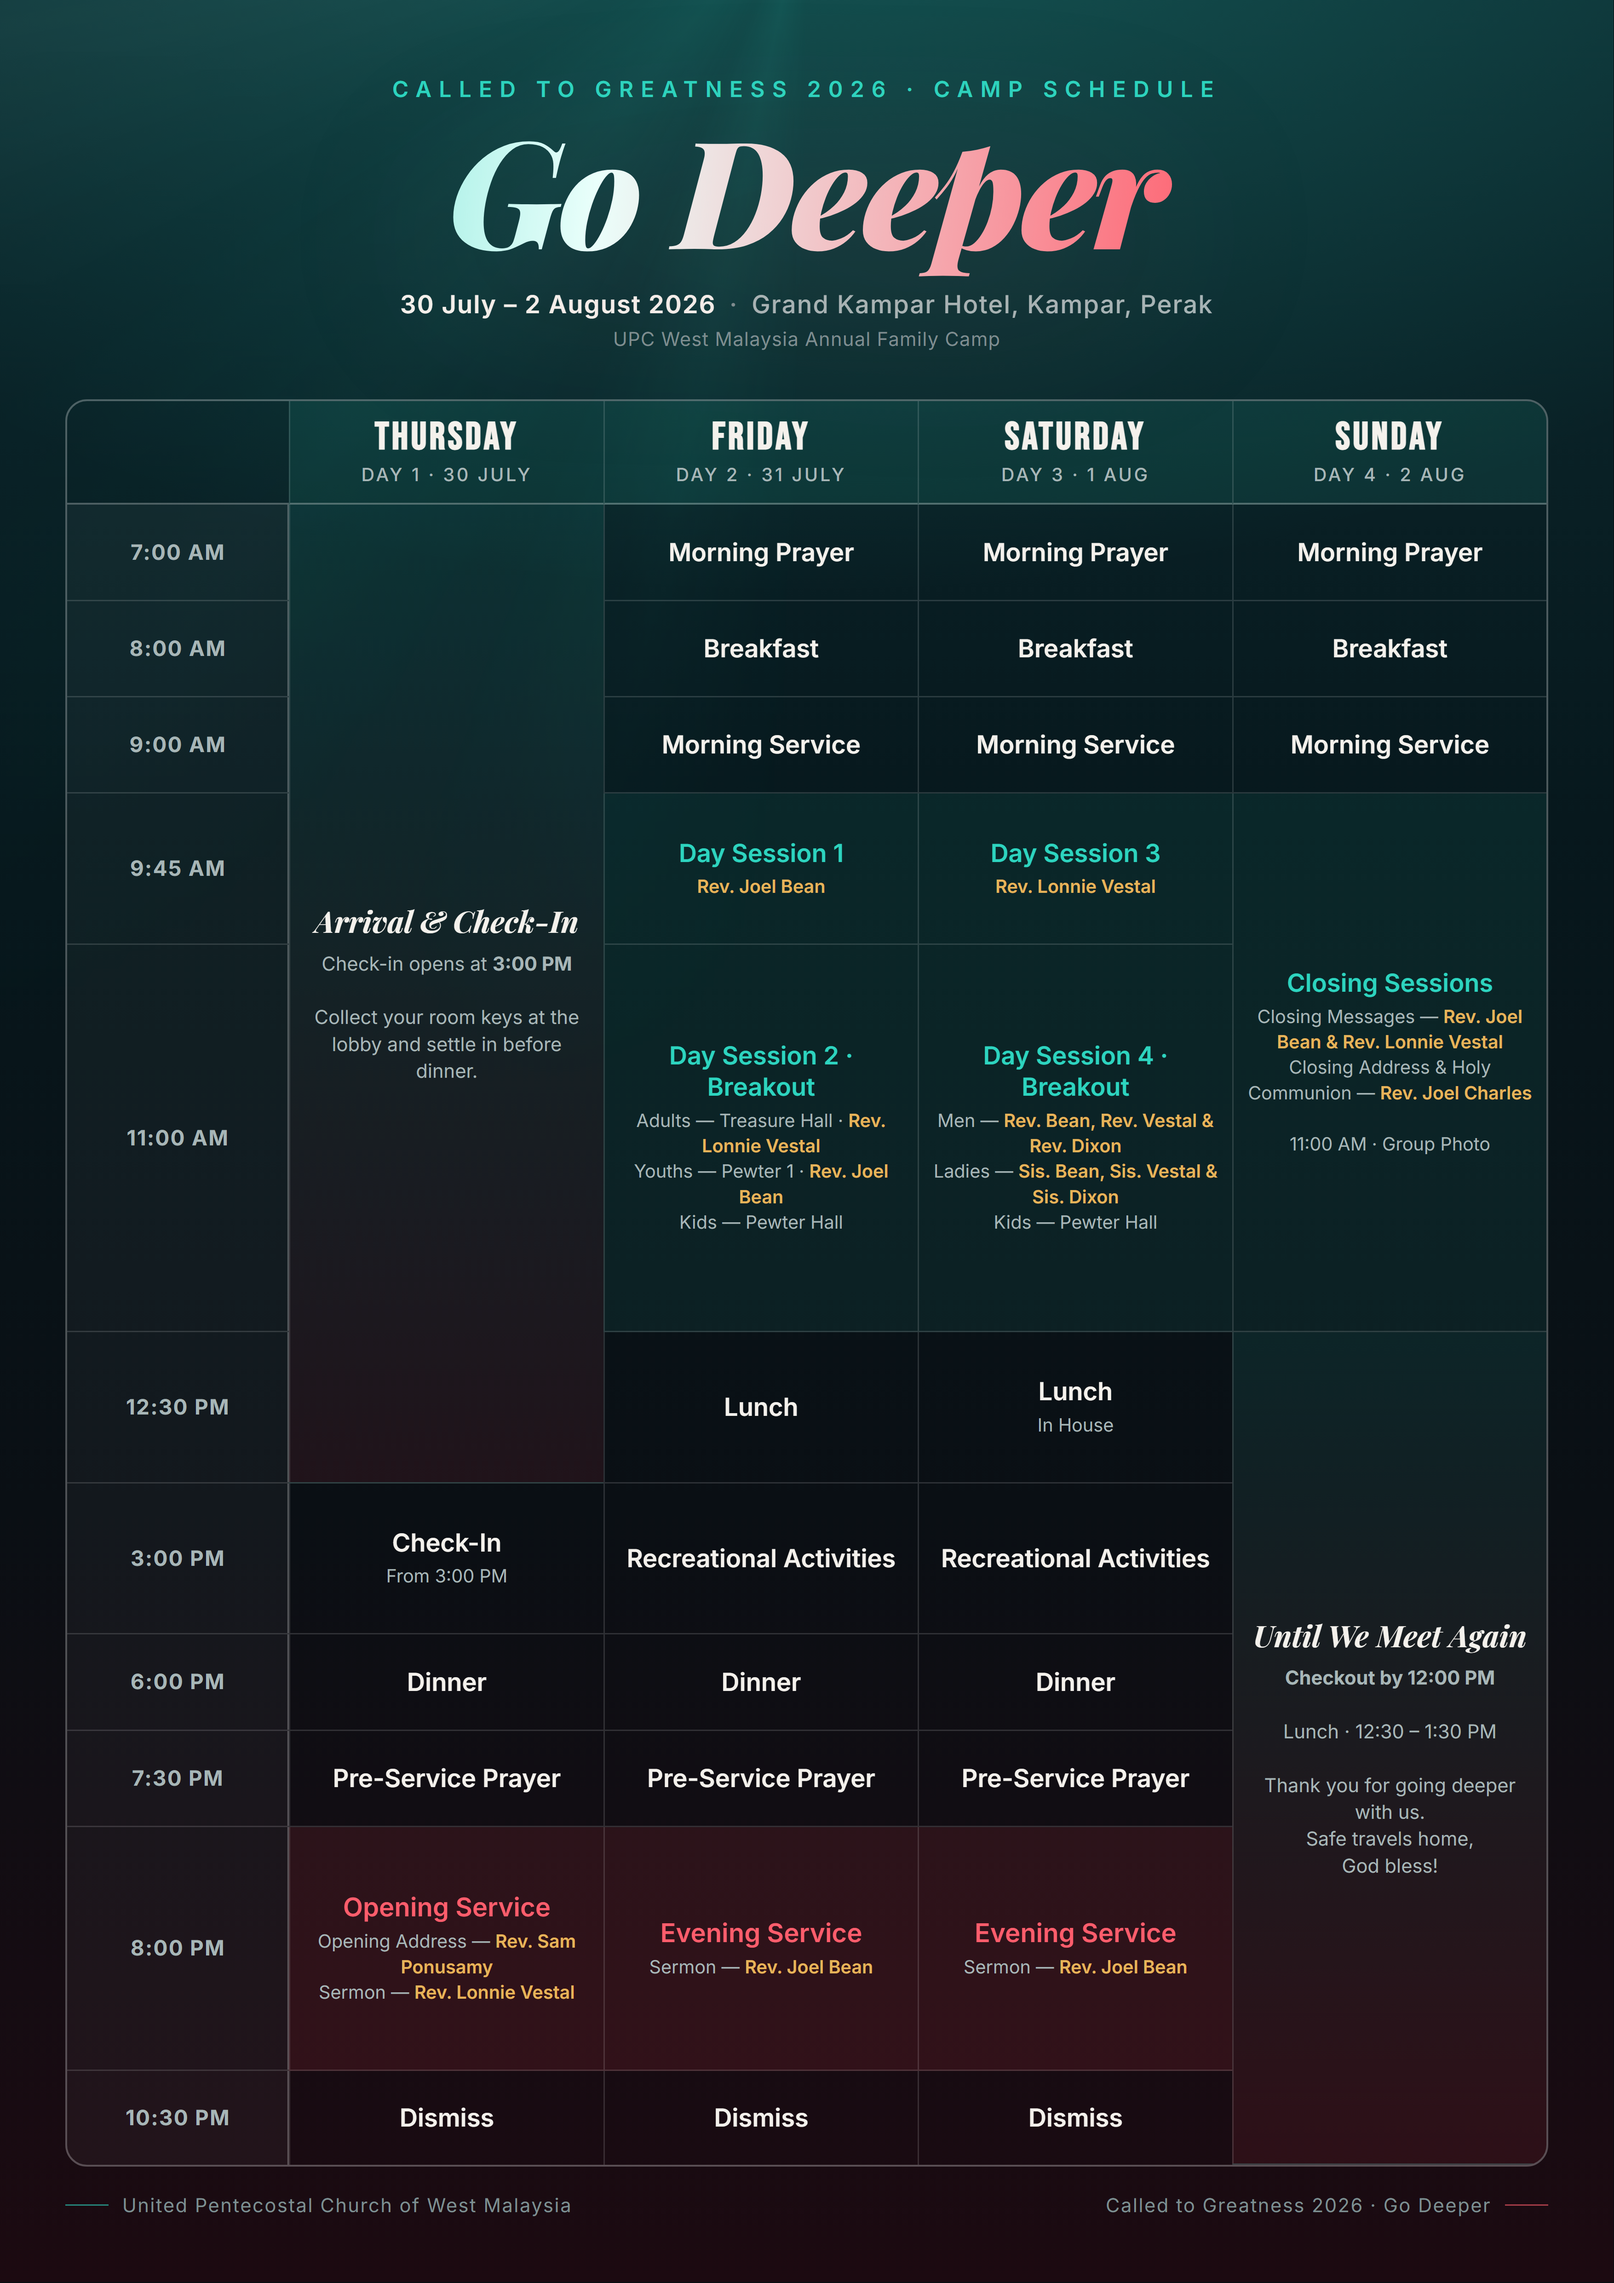
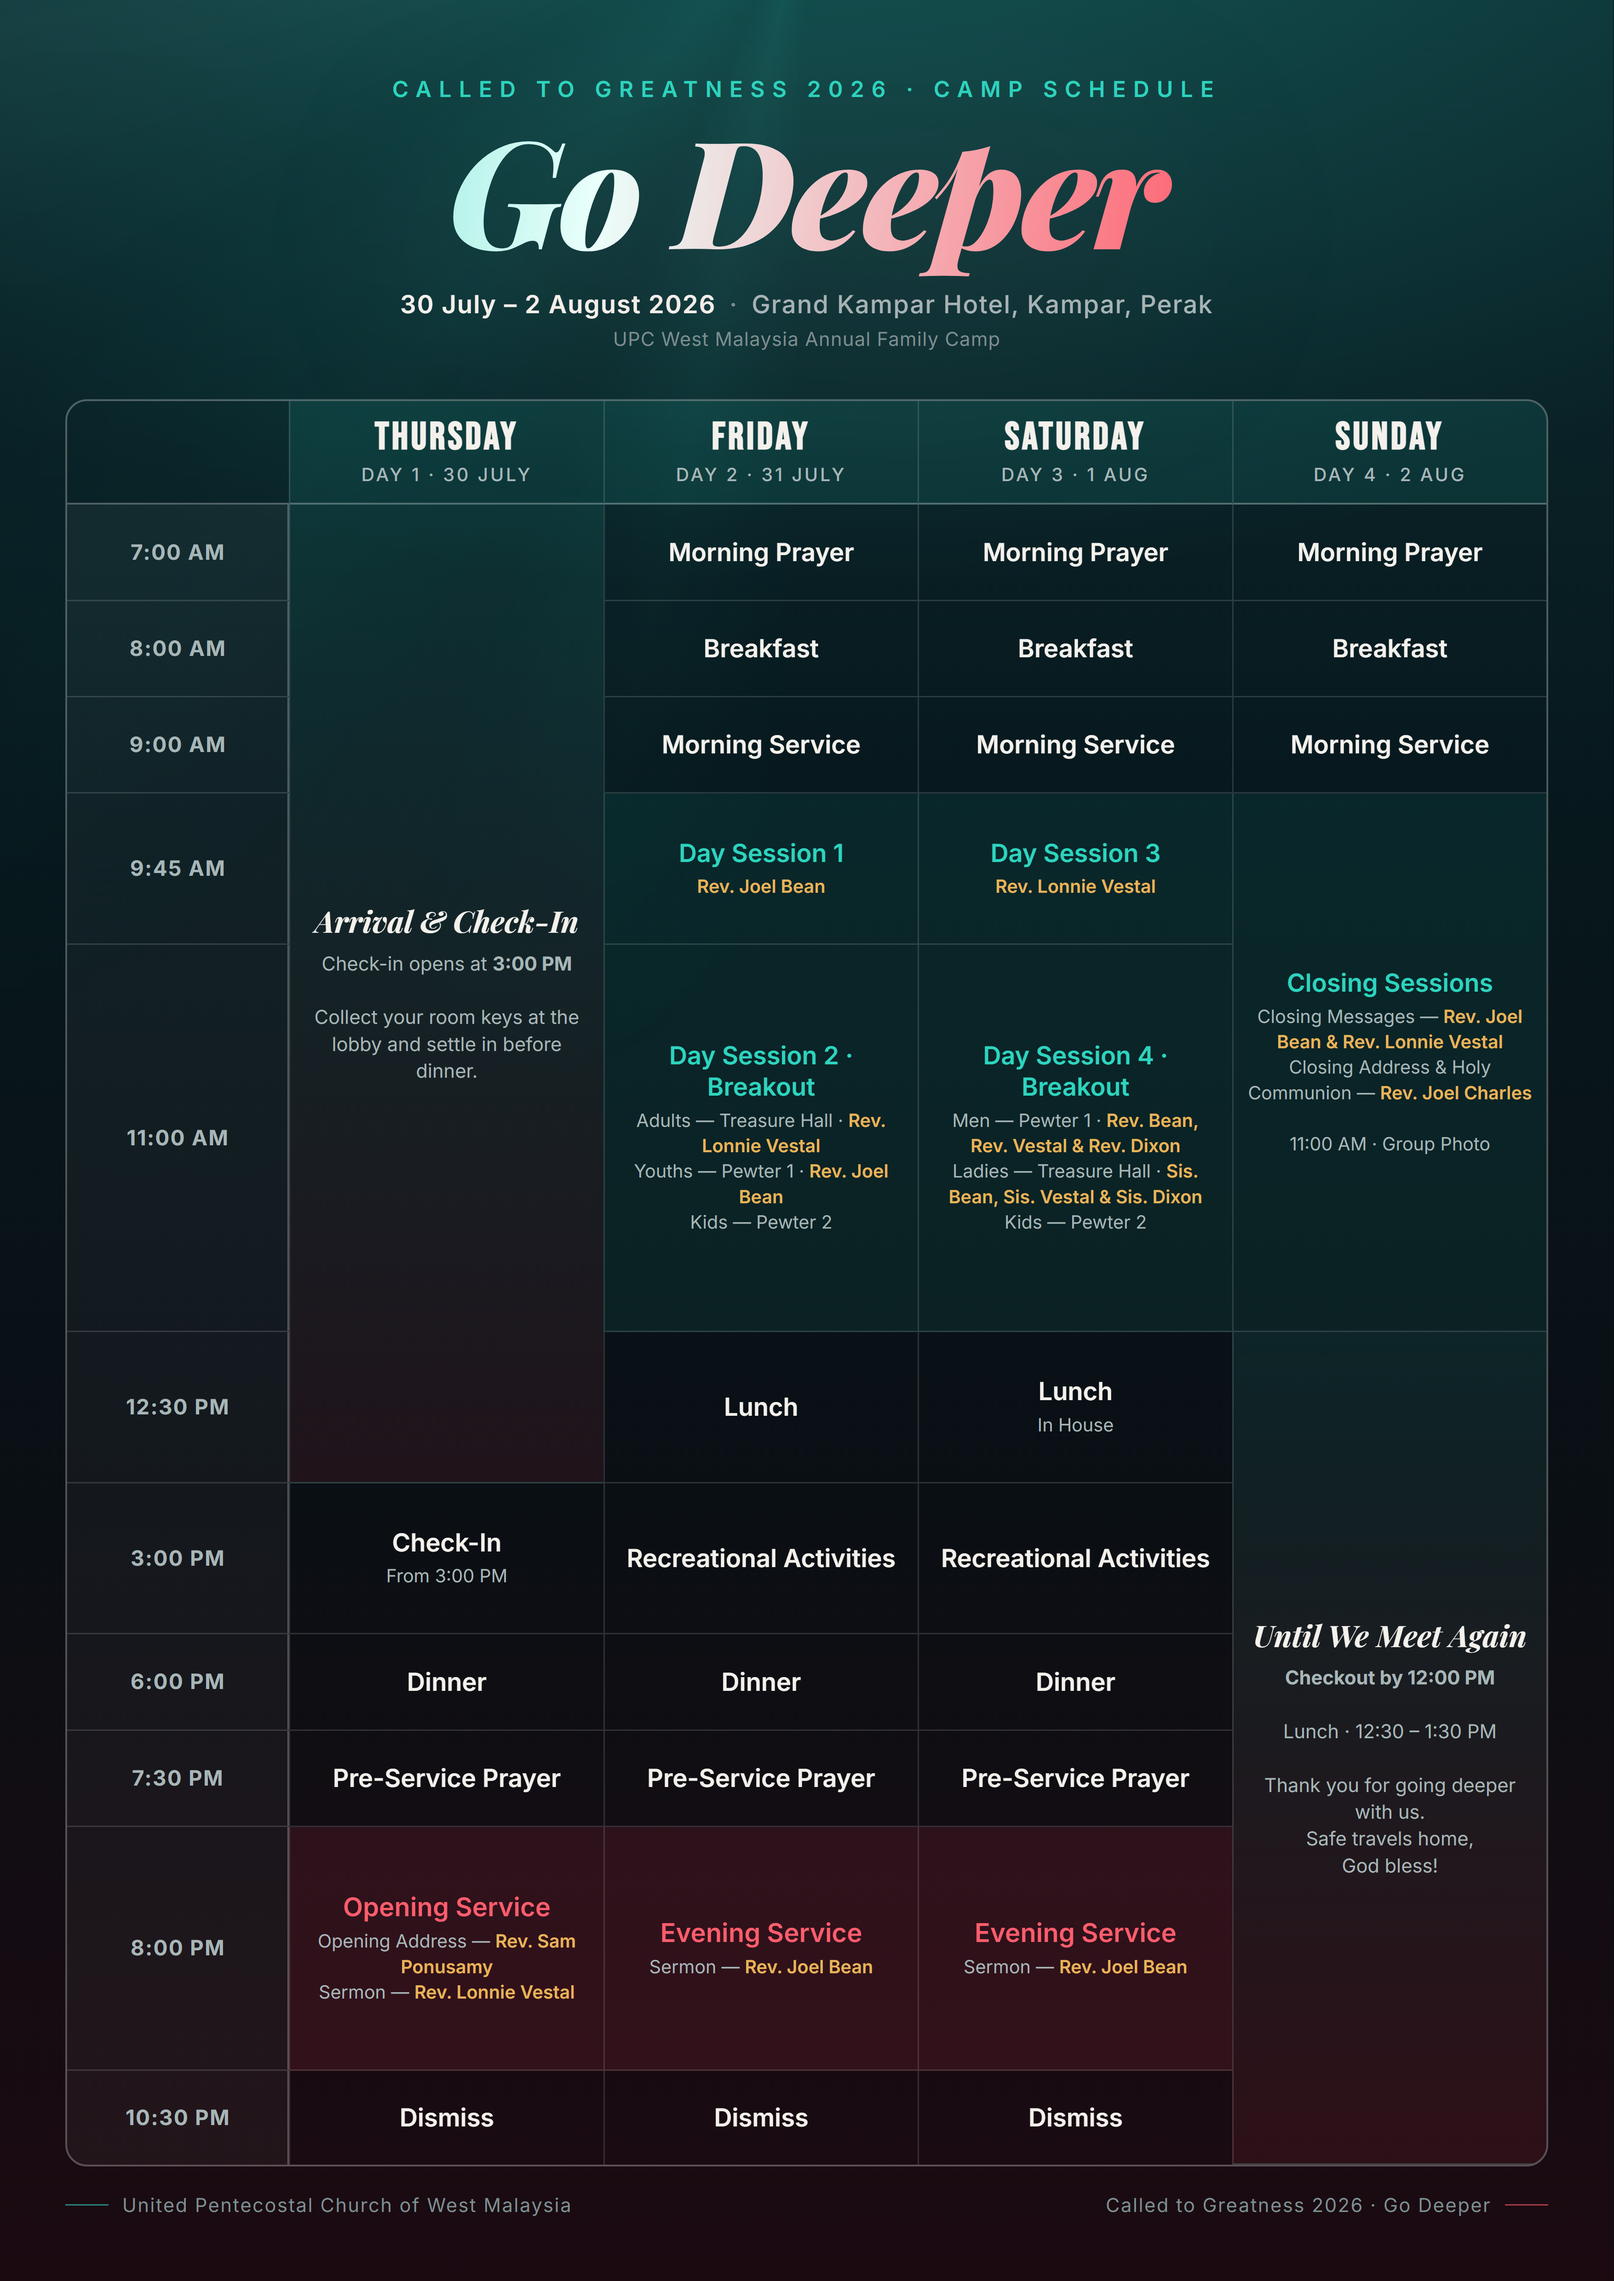
feat: Location update

diff --git a/index.html b/index.html
@@ -800,7 +800,7 @@ footer .credit{margin-top:18px;font-size:.72rem;color:var(--ink-faint)}
         </div>
         <div class="slot" data-start="2026-07-31T10:45:00+08:00"><div class="time">10:45 AM</div><div class="title">Break</div></div>
         <div class="slot" data-start="2026-07-31T11:00:00+08:00"><div class="time">11:00 AM</div><div class="title">Day Session 2 — Breakout</div>
-          <div class="detail">Adults — Treasure Hall · <span class="who">Rev. Lonnie Vestal</span><br>Youths — Pewter 1 · <span class="who">Rev. Joel Bean</span><br>Kids — Pewter Hall</div>
+          <div class="detail">Adults — Treasure Hall · <span class="who">Rev. Lonnie Vestal</span><br>Youths — Pewter 1 · <span class="who">Rev. Joel Bean</span><br>Kids — Pewter 2</div>
         </div>
         <div class="slot" data-start="2026-07-31T12:30:00+08:00"><div class="time">12:30 PM</div><div class="title">Lunch</div><div class="detail">Outside</div></div>
         <div class="slot" data-start="2026-07-31T15:00:00+08:00"><div class="time">3:00 – 5:00 PM</div><div class="title">Recreational Activities</div></div>
@@ -824,7 +824,7 @@ footer .credit{margin-top:18px;font-size:.72rem;color:var(--ink-faint)}
         </div>
         <div class="slot" data-start="2026-08-01T10:45:00+08:00"><div class="time">10:45 AM</div><div class="title">Break</div></div>
         <div class="slot" data-start="2026-08-01T11:00:00+08:00"><div class="time">11:00 AM</div><div class="title">Day Session 4 — Breakout</div>
-          <div class="detail">Men — Loc. TBC · <span class="who">Rev. Bean, Rev. Vestal &amp; Rev. Dixon</span><br>Ladies — Loc. TBC · <span class="who">Sis. Bean, Sis. Vestal &amp; Sis. Dixon</span><br>Kids — Pewter Hall</div>
+          <div class="detail">Men — Pewter 1 · <span class="who">Rev. Bean, Rev. Vestal &amp; Rev. Dixon</span><br>Ladies — Treasure Hall · <span class="who">Sis. Bean, Sis. Vestal &amp; Sis. Dixon</span><br>Kids — Pewter 2</div>
         </div>
         <div class="slot" data-start="2026-08-01T12:30:00+08:00"><div class="time">12:30 PM</div><div class="title">Lunch</div><div class="detail">12:30 – 1:30 PM · In House</div></div>
         <div class="slot" data-start="2026-08-01T15:00:00+08:00"><div class="time">3:00 – 5:00 PM</div><div class="title">Recreational Activities</div></div>

diff --git a/schedule-a3.html b/schedule-a3.html
@@ -232,11 +232,11 @@ footer .fx.r::after{content:"";width:8mm;height:1px;background:var(--crimson-sof
           <td class="session"><span class="ev">Day Session 2 · Breakout</span>
             <span class="sub">Adults — Treasure Hall · <span class="who">Rev. Lonnie Vestal</span><br>
             Youths — Pewter 1 · <span class="who">Rev. Joel Bean</span><br>
-            Kids — Pewter Hall</span></td>
+            Kids — Pewter 2</span></td>
           <td class="session"><span class="ev">Day Session 4 · Breakout</span>
-            <span class="sub">Men — <span class="who">Rev. Bean, Rev. Vestal &amp; Rev. Dixon</span><br>
-            Ladies — <span class="who">Sis. Bean, Sis. Vestal &amp; Sis. Dixon</span><br>
-            Kids — Pewter Hall</span></td>
+            <span class="sub">Men — Pewter 1 · <span class="who">Rev. Bean, Rev. Vestal &amp; Rev. Dixon</span><br>
+            Ladies — Treasure Hall · <span class="who">Sis. Bean, Sis. Vestal &amp; Sis. Dixon</span><br>
+            Kids — Pewter 2</span></td>
         </tr>
 
         <tr>
